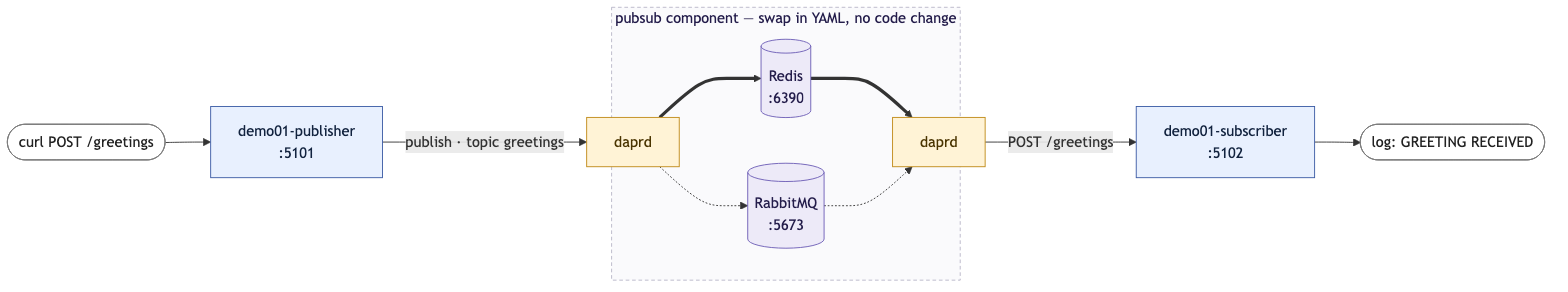
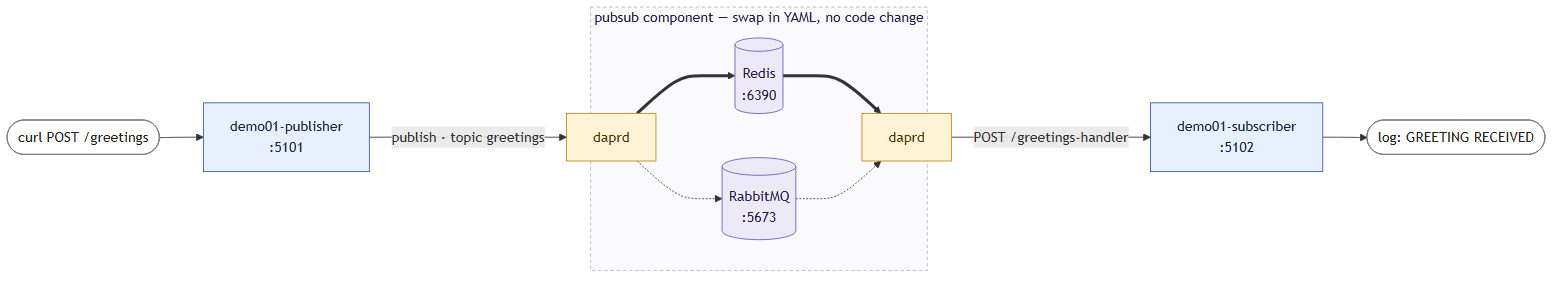
Chore: update docs

diff --git a/README.md b/README.md
@@ -7,7 +7,7 @@ Four small, independent Dapr concept demos in one .NET 10 solution, orchestrated
 | Demo | Concept | Resources | Fixed port(s) |
 |------|---------|-----------|---------------|
 | 01 PubSub | Pub/sub through the sidecar; swap Redis → RabbitMQ with zero code changes | `demo01-publisher`, `demo01-subscriber` | 5101, 5102 |
-| 02 Retries | Non-2xx from a subscriber ⇒ Dapr redelivers; the Result pattern *is* the retry mechanism | `demo02-subscriber` | 5201 |
+| 02 Retries | Non-2xx from a subscriber ⇒ Dapr retries per a resiliency policy; the Result pattern *is* the retry mechanism | `demo02-subscriber` | 5201 |
 | 03 StateStore | Optimistic concurrency with ETags; without them concurrent writers lose updates | `demo03-worker-a`, `demo03-worker-b` | 5301, 5302 |
 | 04 Bindings | HTTP output binding to Discord behind a Clean Architecture `INotifier` | `demo04-api` | 5401 |
 
@@ -84,15 +84,29 @@ Restore afterwards: `git checkout -- src/DaprDemos.AppHost/dapr/pubsub.yaml`.
 Start `demo02-subscriber`, then:
 
 ```bash
-curl -X POST http://localhost:5201/fail-next/3
 curl -X POST http://localhost:5201/publish
 ```
 
-Watch the console logs: three ❌ `failing delivery on purpose — Dapr will redeliver` lines,
-then the success line on attempt 4. With the Redis component, redeliveries arrive ~5–6 s apart
-(`processingTimeout: 5s` + `redeliverInterval: 1s` in `pubsub.yaml`); after the demo 01 swap,
-RabbitMQ redelivers instantly. The subscriber's handler returns a failure `Result`, the
-controller maps it to HTTP 500, and Dapr does the rest — no retry code anywhere.
+There is nothing to arm first: every message rolls its own dice. `FlakyDeliveryPlan` picks a
+random **1–5** deliveries to fail per message id and counts the attempts, so the log tells the
+whole story:
+
+```text
+Failed Attempt 1 of 3 for message <id>: failing delivery on purpose — Dapr will redeliver
+Failed Attempt 2 of 3 ...
+Failed Attempt 3 of 3 ...
+Succeeded Attempt 4: processed message <id> after 3 failed deliveries
+```
+
+The retries come from `dapr/resiliency.yaml` — a `constant` policy, **2 s apart, max 10
+retries**, scoped to `demo02-subscriber` and bound to *inbound* deliveries of the `pubsub`
+component. Publish again to get a different number of failures. The subscriber's handler
+returns a failure `Result`, the controller maps it to HTTP 500, and Dapr does the rest — no
+retry code anywhere in the app.
+
+The broker's own redelivery is only a backstop: `pubsub.yaml` sets `processingTimeout: 60s` and
+`redeliverInterval: 15s`, comfortably above the ~20 s the retry policy can hold a message, so
+Redis never delivers a duplicate on top of a retry that is still running.
 
 ## Demo 03 — State store & ETag concurrency
 
@@ -141,7 +155,8 @@ curl -i -X POST http://localhost:5401/alerts -H "Content-Type: application/json"
   is the container's plain-text port; 6379 is TLS).
 - **Pub/sub component:** `git checkout -- src/DaprDemos.AppHost/dapr/pubsub.yaml` if you did the swap.
 - **RabbitMQ queues:** purge via the management UI (Queues → purge) if a dry run left messages behind.
-- **Demo 02 attempt counters** are in-memory — restarting `demo02-subscriber` clears them.
+- **Demo 02** needs no reset: each `/publish` creates a new message id with a fresh failure
+  count. (The attempt counters are in-memory anyway — restarting `demo02-subscriber` clears them.)
 - Stopping the AppHost removes the containers; state does not survive between sessions.
 
 ## Environment notes
@@ -152,3 +167,6 @@ curl -i -X POST http://localhost:5401/alerts -H "Content-Type: application/json"
   Dapr components therefore set `enableTLS: "true"` (Dapr's Redis client does not verify the
   certificate).
 - Component `initTimeout` is 120 s so a slow first container pull can't kill a sidecar.
+- The state store sets `keyPrefix: none`, so both demo 03 workers address the *same* literal
+  `demo-counter` key instead of one prefixed per app-id — that shared key is the whole point of
+  the demo (and it's why the `redis-cli DEL demo-counter` above works).

diff --git a/CLAUDE.md b/CLAUDE.md
@@ -31,7 +31,12 @@ There are no test projects. Verification is manual: launch the AppHost (needs Do
 - Sidecars `WaitFor` the broker containers because daprd fails fatally if a component's backing service is unreachable at init.
 - Demo 03 runs **two named resources of the same project** (not `WithReplicas`) so they can be started one at a time during the talk.
 
-Dapr components live in `src/DaprDemos.AppHost/dapr/`: `pubsub.yaml` (Redis; `pubsub.rabbitmq.yaml.disabled` is the drop-in swap for demo 01 — the `.disabled` extension only prevents daprd loading two components named `pubsub`), `statestore.yaml`, `discord.yaml` (HTTP output binding), and `secretstore.yaml` (env-var secret store resolving `DISCORD_WEBHOOK_URL`).
+Dapr components live in `src/DaprDemos.AppHost/dapr/`: `pubsub.yaml` (Redis; `pubsub.rabbitmq.yaml.disabled` is the drop-in swap for demo 01 — the `.disabled` extension only prevents daprd loading two components named `pubsub`), `statestore.yaml`, `discord.yaml` (HTTP output binding), and `secretstore.yaml` (env-var secret store resolving `DISCORD_WEBHOOK_URL`). The same folder also holds `resiliency.yaml` (a `Resiliency` spec, not a component) — daprd loads it from the resources path.
+
+Two YAML settings are load-bearing for the demos and easy to break:
+
+- `statestore.yaml` sets `keyPrefix: none` so both demo 03 workers hit the same literal `demo-counter` key; with the default per-app-id prefix they would never contend and demo 03 would show nothing.
+- `resiliency.yaml` defines demo 02's visible retries (`constant`, 2 s, max 10, inbound on the `pubsub` component, scoped to `demo02-subscriber`). `pubsub.yaml`'s `processingTimeout: 60s` / `redeliverInterval: 15s` are deliberately set well above the ~20 s retry window so Redis's reclaim loop never delivers a duplicate on top of an in-flight retry.
 
 ### Shared projects
 
@@ -45,6 +50,6 @@ All demos follow the same vertical-slice CQRS shape: minimal-API or controller e
 
 Conventions that carry meaning here:
 
-- **Errors are values, never exceptions**: domain/application failures return `Result` failures with coded `Error`s (e.g. `Alert.EmptyTitle`); demo 02's whole point is that a failure `Result` → HTTP 500 → Dapr redelivery *is* the retry mechanism.
+- **Errors are values, never exceptions**: domain/application failures return `Result` failures with coded `Error`s (e.g. `Alert.EmptyTitle`); demo 02's whole point is that a failure `Result` → HTTP 500 → Dapr retry *is* the retry mechanism. Demo 02 has no arming endpoint: `FlakyDeliveryPlan` (singleton) rolls a random 1–5 planned failures per message id on first delivery and counts attempts, so `/publish` alone produces the retry sequence in the logs.
 - **HTTPS redirection is deliberately absent** in every app — it breaks Dapr sidecar communication.
 - Pub/sub subscribers use attribute-routed controllers with `[Topic]`; publishers use `DaprClient.PublishEventAsync` with names from `DaprDemos.Contracts`.

diff --git a/docs/diagrams.md b/docs/diagrams.md
@@ -32,7 +32,7 @@ flowchart LR
     P -->|"publish · topic greetings"| PD
     PD ==> R ==> SD
     PD -.-> Q -.-> SD
-    SD -->|"POST /greetings"| S --> L
+    SD -->|"POST /greetings-handler"| S --> L
 
     classDef app fill:#E8F0FE,stroke:#3B5BA5,color:#12233F
     classDef car fill:#FFF3D6,stroke:#C08A18,color:#4A3400
@@ -51,22 +51,21 @@ sequenceDiagram
     participant D as Dapr sidecar
     participant R as Redis / RabbitMQ
 
-    C->>A: POST /fail-next/3
     C->>A: POST /publish
     A->>D: publish · topic flakymessages
     D->>R: store message
+    R->>D: deliver
+    Note right of A: FlakyDeliveryPlan rolls<br/>1–5 planned failures for this message
 
-    loop delivery 1, 2, 3
-        R->>D: deliver
-        D->>A: POST /flakymessages
+    loop planned failures (random 1–5)
+        D->>A: POST /flaky-messages-handler
         A-->>D: 500 — failure Result
-        Note right of D: not 2xx → redeliver
+        Note right of D: not 2xx → retry policy<br/>constant · 2s · max 10
     end
 
-    R->>D: deliver
-    D->>A: POST /flakymessages
+    D->>A: POST /flaky-messages-handler
     A-->>D: 200 OK — handled
-    Note over A,R: no retry code anywhere in the app
+    Note over A,R: retries live in resiliency.yaml — no retry code in the app
 ```
 
 ## Demo 03 — State store: ETags vs. lost updates
